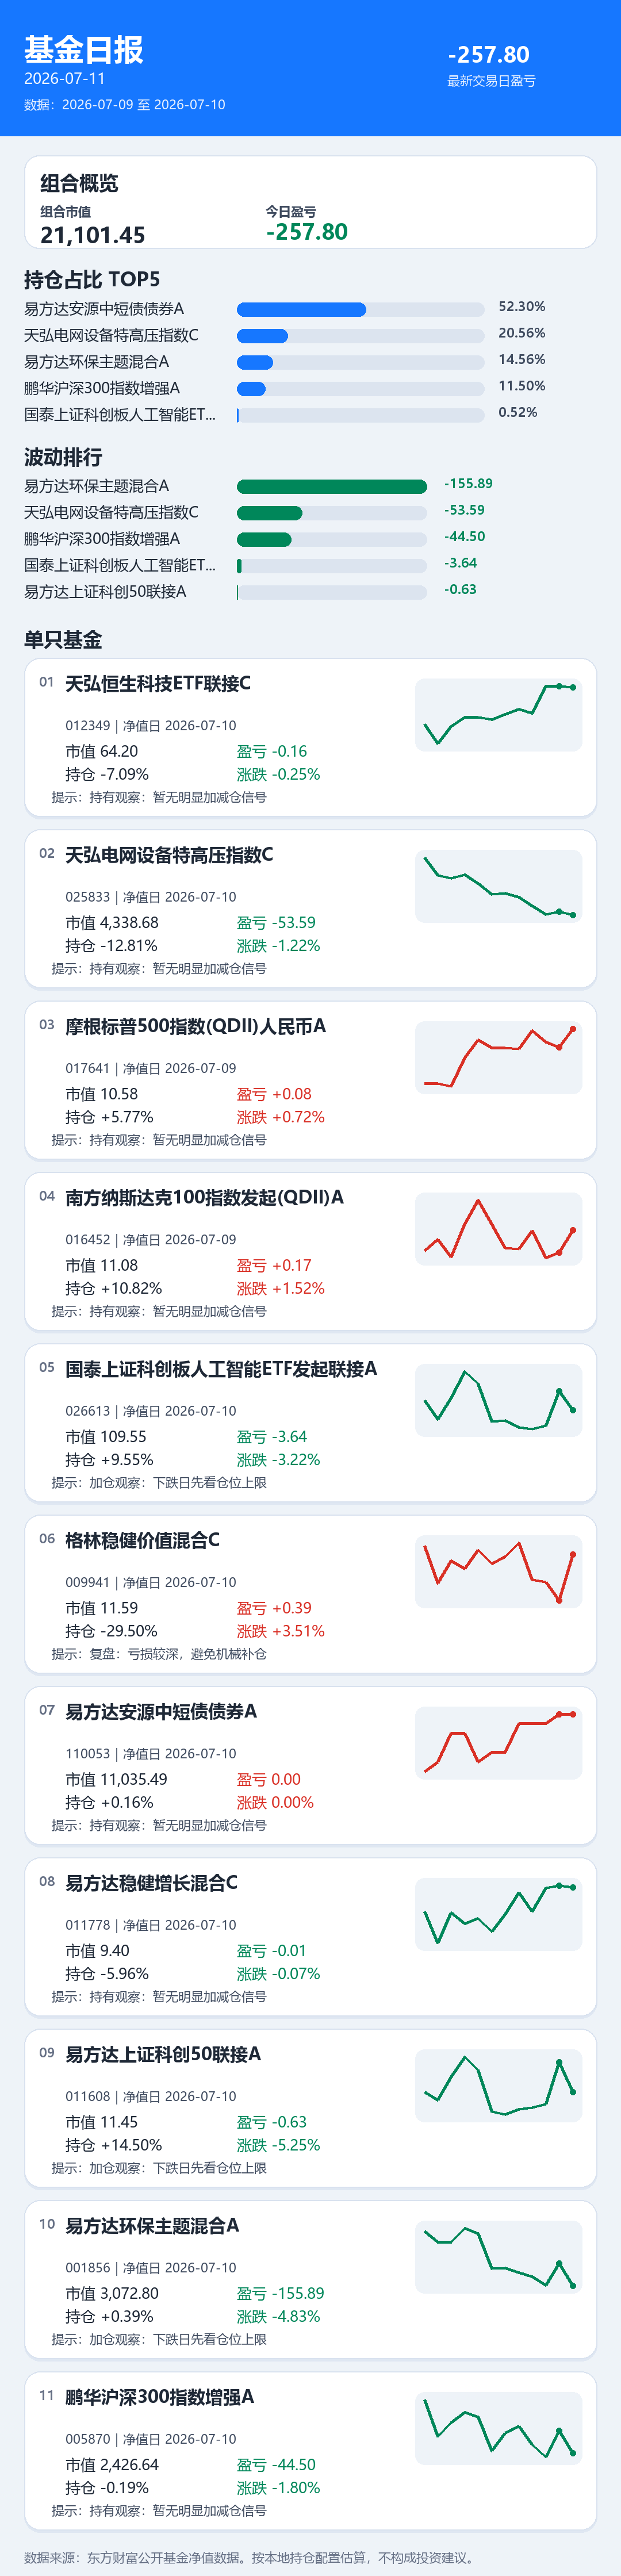
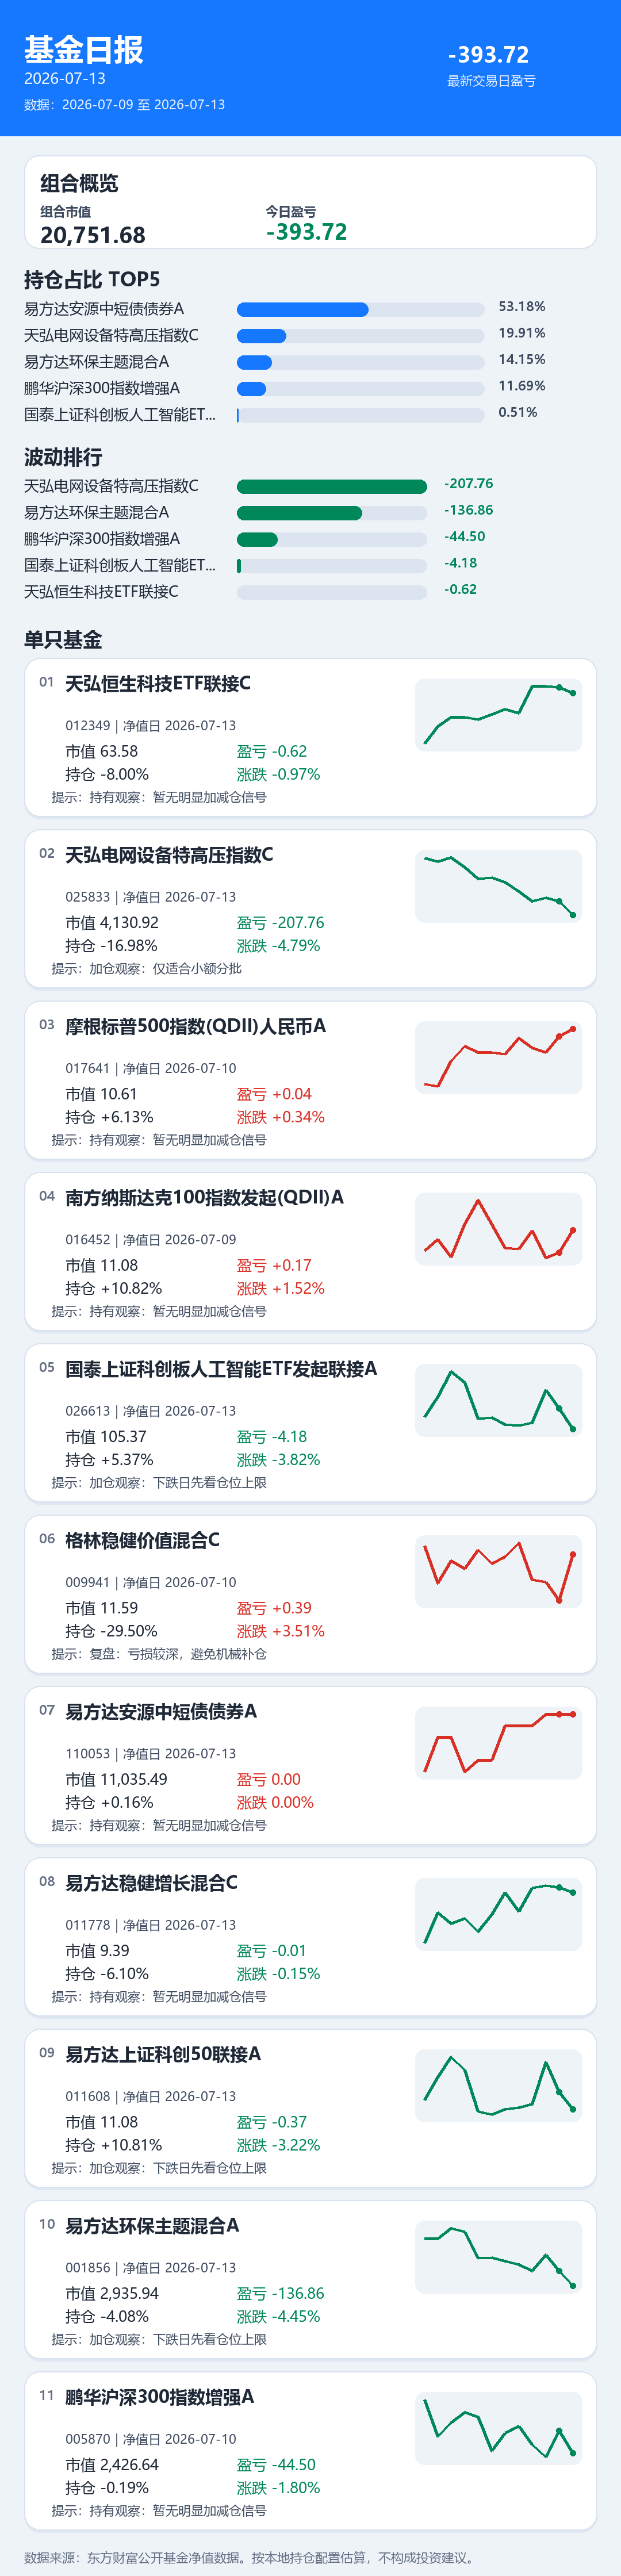
Update fund report

diff --git a/index.html b/index.html
@@ -4,7 +4,7 @@
   <meta charset="utf-8">
   <meta name="viewport" content="width=device-width, initial-scale=1">
   <meta name="color-scheme" content="light">
-  <title>基金日报 2026-07-11</title>
+  <title>基金日报 2026-07-13</title>
   <style>
     :root {
       --blue: #1677ff;
@@ -92,35 +92,35 @@
   <header class="report-header">
     <div class="header-inner">
       <div class="header-top">
-        <div><h1>基金日报</h1><p class="report-date">2026-07-11</p></div>
-        <div class="total-profit"><span>最新盈亏</span><strong class="down">-257.80</strong></div>
+        <div><h1>基金日报</h1><p class="report-date">2026-07-13</p></div>
+        <div class="total-profit"><span>最新盈亏</span><strong class="down">-393.72</strong></div>
       </div>
-      <p class="status">净值日期不一致：2026-07-09 至 2026-07-10 · 生成于 21:32</p>
+      <p class="status">净值日期不一致：2026-07-09 至 2026-07-13 · 生成于 21:31</p>
     </div>
   </header>
   <main>
     <section class="overview">
-      <div class="market-value"><h2>组合概览</h2><span>组合市值</span><strong>21,101.45</strong></div>
+      <div class="market-value"><h2>组合概览</h2><span>组合市值</span><strong>20,751.68</strong></div>
       <div><h2>持仓占比 TOP5</h2>
         <div class="position-row">
-          <div><span>易方达安源中短债债券A</span><strong>52.30%</strong></div>
-          <div class="bar"><i style="width:52.29728826268874160596049665%"></i></div>
+          <div><span>易方达安源中短债债券A</span><strong>53.18%</strong></div>
+          <div class="bar"><i style="width:53.17877501833291723431404222%"></i></div>
         </div>
         <div class="position-row">
-          <div><span>天弘电网设备特高压指数C</span><strong>20.56%</strong></div>
-          <div class="bar"><i style="width:20.56104597573046740367083099%"></i></div>
+          <div><span>天弘电网设备特高压指数C</span><strong>19.91%</strong></div>
+          <div class="bar"><i style="width:19.90641814759095893039161796%"></i></div>
         </div>
         <div class="position-row">
-          <div><span>易方达环保主题混合A</span><strong>14.56%</strong></div>
-          <div class="bar"><i style="width:14.56201259294924840830462025%"></i></div>
+          <div><span>易方达环保主题混合A</span><strong>14.15%</strong></div>
+          <div class="bar"><i style="width:14.14793969901063129637588490%"></i></div>
         </div>
         <div class="position-row">
-          <div><span>鹏华沪深300指数增强A</span><strong>11.50%</strong></div>
-          <div class="bar"><i style="width:11.49985732220298966762575576%"></i></div>
+          <div><span>鹏华沪深300指数增强A</span><strong>11.69%</strong></div>
+          <div class="bar"><i style="width:11.69369092731080567566046159%"></i></div>
         </div>
         <div class="position-row">
-          <div><span>国泰上证科创板人工智能ETF发起联接A</span><strong>0.52%</strong></div>
-          <div class="bar"><i style="width:0.5191585187128711751338067600%"></i></div>
+          <div><span>国泰上证科创板人工智能ETF发起联接A</span><strong>0.51%</strong></div>
+          <div class="bar"><i style="width:0.5077661454579721893183450168%"></i></div>
         </div></div>
     </section>
     <h2 class="funds-title">单只基金</h2>
@@ -130,18 +130,18 @@
           <span class="fund-index">01</span>
           <div>
             <h2>天弘恒生科技ETF联接C</h2>
-            <p>012349 · 净值日 2026-07-10</p>
+            <p>012349 · 净值日 2026-07-13</p>
           </div>
-          <strong class="growth down">-0.25%</strong>
+          <strong class="growth down">-0.97%</strong>
         </div>
         <div class="fund-body">
           <dl class="fund-stats">
-            <div><dt>市值</dt><dd>64.20</dd></div>
-            <div><dt>最新盈亏</dt><dd class="down">-0.16</dd></div>
-            <div><dt>持仓收益</dt><dd class="down">-7.09%</dd></div>
-            <div><dt>持仓占比</dt><dd>0.30%</dd></div>
+            <div><dt>市值</dt><dd>63.58</dd></div>
+            <div><dt>最新盈亏</dt><dd class="down">-0.62</dd></div>
+            <div><dt>持仓收益</dt><dd class="down">-8.00%</dd></div>
+            <div><dt>持仓占比</dt><dd>0.31%</dd></div>
           </dl>
-          <svg class="sparkline down" viewBox="0 0 240 76" role="img" aria-label="近12个净值点走势"><line class="spark-base" x1="10" y1="62" x2="230" y2="62"></line><polyline points="10.0,46.1 30.0,62.0 50.0,47.7 70.0,40.0 90.0,40.3 110.0,42.2 130.0,37.9 150.0,33.4 170.0,37.0 190.0,14.2 210.0,14.0 230.0,15.3"></polyline><circle cx="230.0" cy="15.3" r="4"></circle></svg>
+          <svg class="sparkline down" viewBox="0 0 240 76" role="img" aria-label="近12个净值点走势"><line class="spark-base" x1="10" y1="62" x2="230" y2="62"></line><polyline points="10.0,62.0 30.0,47.7 50.0,40.0 70.0,40.3 90.0,42.2 110.0,37.9 130.0,33.4 150.0,37.0 170.0,14.2 190.0,14.0 210.0,15.3 230.0,20.2"></polyline><circle cx="230.0" cy="20.2" r="4"></circle></svg>
         </div>
         <p class="hint">持有观察：暂无明显加减仓信号</p>
       </article>
@@ -150,38 +150,38 @@
           <span class="fund-index">02</span>
           <div>
             <h2>天弘电网设备特高压指数C</h2>
-            <p>025833 · 净值日 2026-07-10</p>
+            <p>025833 · 净值日 2026-07-13</p>
           </div>
-          <strong class="growth down">-1.22%</strong>
+          <strong class="growth down">-4.79%</strong>
         </div>
         <div class="fund-body">
           <dl class="fund-stats">
-            <div><dt>市值</dt><dd>4,338.68</dd></div>
-            <div><dt>最新盈亏</dt><dd class="down">-53.59</dd></div>
-            <div><dt>持仓收益</dt><dd class="down">-12.81%</dd></div>
-            <div><dt>持仓占比</dt><dd>20.56%</dd></div>
+            <div><dt>市值</dt><dd>4,130.92</dd></div>
+            <div><dt>最新盈亏</dt><dd class="down">-207.76</dd></div>
+            <div><dt>持仓收益</dt><dd class="down">-16.98%</dd></div>
+            <div><dt>持仓占比</dt><dd>19.91%</dd></div>
           </dl>
-          <svg class="sparkline down" viewBox="0 0 240 76" role="img" aria-label="近12个净值点走势"><line class="spark-base" x1="10" y1="62" x2="230" y2="62"></line><polyline points="10.0,14.0 30.0,29.0 50.0,31.6 70.0,28.5 90.0,36.0 110.0,45.1 130.0,43.8 150.0,47.6 170.0,54.6 190.0,61.9 210.0,59.4 230.0,62.0"></polyline><circle cx="230.0" cy="62.0" r="4"></circle></svg>
+          <svg class="sparkline down" viewBox="0 0 240 76" role="img" aria-label="近12个净值点走势"><line class="spark-base" x1="10" y1="62" x2="230" y2="62"></line><polyline points="10.0,14.5 30.0,17.4 50.0,14.0 70.0,22.3 90.0,32.2 110.0,30.8 130.0,35.0 150.0,42.7 170.0,50.8 190.0,48.1 210.0,50.9 230.0,62.0"></polyline><circle cx="230.0" cy="62.0" r="4"></circle></svg>
         </div>
-        <p class="hint">持有观察：暂无明显加减仓信号</p>
+        <p class="hint">加仓观察：仅适合小额分批</p>
       </article>
       <article class="fund-card">
         <div class="fund-heading">
           <span class="fund-index">03</span>
           <div>
             <h2>摩根标普500指数(QDII)人民币A</h2>
-            <p>017641 · 净值日 2026-07-09</p>
+            <p>017641 · 净值日 2026-07-10</p>
           </div>
-          <strong class="growth up">+0.72%</strong>
+          <strong class="growth up">+0.34%</strong>
         </div>
         <div class="fund-body">
           <dl class="fund-stats">
-            <div><dt>市值</dt><dd>10.58</dd></div>
-            <div><dt>最新盈亏</dt><dd class="up">+0.08</dd></div>
-            <div><dt>持仓收益</dt><dd class="up">+5.77%</dd></div>
+            <div><dt>市值</dt><dd>10.61</dd></div>
+            <div><dt>最新盈亏</dt><dd class="up">+0.04</dd></div>
+            <div><dt>持仓收益</dt><dd class="up">+6.13%</dd></div>
             <div><dt>持仓占比</dt><dd>0.05%</dd></div>
           </dl>
-          <svg class="sparkline up" viewBox="0 0 240 76" role="img" aria-label="近12个净值点走势"><line class="spark-base" x1="10" y1="62" x2="230" y2="62"></line><polyline points="10.0,59.7 30.0,59.8 50.0,62.0 70.0,38.0 90.0,23.5 110.0,29.9 130.0,29.9 150.0,31.0 170.0,15.7 190.0,25.2 210.0,29.5 230.0,14.0"></polyline><circle cx="230.0" cy="14.0" r="4"></circle></svg>
+          <svg class="sparkline up" viewBox="0 0 240 76" role="img" aria-label="近12个净值点走势"><line class="spark-base" x1="10" y1="62" x2="230" y2="62"></line><polyline points="10.0,60.1 30.0,62.0 50.0,41.2 70.0,28.7 90.0,34.1 110.0,34.1 130.0,35.1 150.0,21.8 170.0,30.1 190.0,33.8 210.0,20.4 230.0,14.0"></polyline><circle cx="230.0" cy="14.0" r="4"></circle></svg>
         </div>
         <p class="hint">持有观察：暂无明显加减仓信号</p>
       </article>
@@ -210,18 +210,18 @@
           <span class="fund-index">05</span>
           <div>
             <h2>国泰上证科创板人工智能ETF发起联接A</h2>
-            <p>026613 · 净值日 2026-07-10</p>
+            <p>026613 · 净值日 2026-07-13</p>
           </div>
-          <strong class="growth down">-3.22%</strong>
+          <strong class="growth down">-3.82%</strong>
         </div>
         <div class="fund-body">
           <dl class="fund-stats">
-            <div><dt>市值</dt><dd>109.55</dd></div>
-            <div><dt>最新盈亏</dt><dd class="down">-3.64</dd></div>
-            <div><dt>持仓收益</dt><dd class="up">+9.55%</dd></div>
-            <div><dt>持仓占比</dt><dd>0.52%</dd></div>
+            <div><dt>市值</dt><dd>105.37</dd></div>
+            <div><dt>最新盈亏</dt><dd class="down">-4.18</dd></div>
+            <div><dt>持仓收益</dt><dd class="up">+5.37%</dd></div>
+            <div><dt>持仓占比</dt><dd>0.51%</dd></div>
           </dl>
-          <svg class="sparkline down" viewBox="0 0 240 76" role="img" aria-label="近12个净值点走势"><line class="spark-base" x1="10" y1="62" x2="230" y2="62"></line><polyline points="10.0,38.0 30.0,54.2 50.0,36.5 70.0,14.0 90.0,24.1 110.0,56.0 130.0,54.9 150.0,60.9 170.0,62.0 190.0,59.6 210.0,30.7 230.0,46.6"></polyline><circle cx="230.0" cy="46.6" r="4"></circle></svg>
+          <svg class="sparkline down" viewBox="0 0 240 76" role="img" aria-label="近12个净值点走势"><line class="spark-base" x1="10" y1="62" x2="230" y2="62"></line><polyline points="10.0,52.0 30.0,35.3 50.0,14.0 70.0,23.6 90.0,53.6 110.0,52.6 130.0,58.3 150.0,59.3 170.0,57.0 190.0,29.7 210.0,44.7 230.0,62.0"></polyline><circle cx="230.0" cy="62.0" r="4"></circle></svg>
         </div>
         <p class="hint">加仓观察：下跌日先看仓位上限</p>
       </article>
@@ -239,7 +239,7 @@
             <div><dt>市值</dt><dd>11.59</dd></div>
             <div><dt>最新盈亏</dt><dd class="up">+0.39</dd></div>
             <div><dt>持仓收益</dt><dd class="down">-29.50%</dd></div>
-            <div><dt>持仓占比</dt><dd>0.05%</dd></div>
+            <div><dt>持仓占比</dt><dd>0.06%</dd></div>
           </dl>
           <svg class="sparkline up" viewBox="0 0 240 76" role="img" aria-label="近12个净值点走势"><line class="spark-base" x1="10" y1="62" x2="230" y2="62"></line><polyline points="10.0,16.5 30.0,47.9 50.0,28.9 70.0,35.8 90.0,20.1 110.0,31.4 130.0,25.9 150.0,14.0 170.0,45.2 190.0,46.8 210.0,62.0 230.0,23.9"></polyline><circle cx="230.0" cy="23.9" r="4"></circle></svg>
         </div>
@@ -250,7 +250,7 @@
           <span class="fund-index">07</span>
           <div>
             <h2>易方达安源中短债债券A</h2>
-            <p>110053 · 净值日 2026-07-10</p>
+            <p>110053 · 净值日 2026-07-13</p>
           </div>
           <strong class="growth flat">0.00%</strong>
         </div>
@@ -259,9 +259,9 @@
             <div><dt>市值</dt><dd>11,035.49</dd></div>
             <div><dt>最新盈亏</dt><dd class="flat">0.00</dd></div>
             <div><dt>持仓收益</dt><dd class="up">+0.16%</dd></div>
-            <div><dt>持仓占比</dt><dd>52.30%</dd></div>
+            <div><dt>持仓占比</dt><dd>53.18%</dd></div>
           </dl>
-          <svg class="sparkline flat" viewBox="0 0 240 76" role="img" aria-label="近12个净值点走势"><line class="spark-base" x1="10" y1="62" x2="230" y2="62"></line><polyline points="10.0,62.0 30.0,54.0 50.0,30.0 70.0,30.0 90.0,54.0 110.0,46.0 130.0,46.0 150.0,22.0 170.0,22.0 190.0,22.0 210.0,14.0 230.0,14.0"></polyline><circle cx="230.0" cy="14.0" r="4"></circle></svg>
+          <svg class="sparkline flat" viewBox="0 0 240 76" role="img" aria-label="近12个净值点走势"><line class="spark-base" x1="10" y1="62" x2="230" y2="62"></line><polyline points="10.0,62.0 30.0,33.2 50.0,33.2 70.0,62.0 90.0,52.4 110.0,52.4 130.0,23.6 150.0,23.6 170.0,23.6 190.0,14.0 210.0,14.0 230.0,14.0"></polyline><circle cx="230.0" cy="14.0" r="4"></circle></svg>
         </div>
         <p class="hint">持有观察：暂无明显加减仓信号</p>
       </article>
@@ -270,18 +270,18 @@
           <span class="fund-index">08</span>
           <div>
             <h2>易方达稳健增长混合C</h2>
-            <p>011778 · 净值日 2026-07-10</p>
+            <p>011778 · 净值日 2026-07-13</p>
           </div>
-          <strong class="growth down">-0.07%</strong>
+          <strong class="growth down">-0.15%</strong>
         </div>
         <div class="fund-body">
           <dl class="fund-stats">
-            <div><dt>市值</dt><dd>9.40</dd></div>
+            <div><dt>市值</dt><dd>9.39</dd></div>
             <div><dt>最新盈亏</dt><dd class="down">-0.01</dd></div>
-            <div><dt>持仓收益</dt><dd class="down">-5.96%</dd></div>
-            <div><dt>持仓占比</dt><dd>0.04%</dd></div>
+            <div><dt>持仓收益</dt><dd class="down">-6.10%</dd></div>
+            <div><dt>持仓占比</dt><dd>0.05%</dd></div>
           </dl>
-          <svg class="sparkline down" viewBox="0 0 240 76" role="img" aria-label="近12个净值点走势"><line class="spark-base" x1="10" y1="62" x2="230" y2="62"></line><polyline points="10.0,35.6 30.0,62.0 50.0,36.9 70.0,45.8 90.0,41.7 110.0,52.8 130.0,38.2 150.0,20.0 170.0,35.6 190.0,16.2 210.0,14.0 230.0,15.9"></polyline><circle cx="230.0" cy="15.9" r="4"></circle></svg>
+          <svg class="sparkline down" viewBox="0 0 240 76" role="img" aria-label="近12个净值点走势"><line class="spark-base" x1="10" y1="62" x2="230" y2="62"></line><polyline points="10.0,62.0 30.0,36.9 50.0,45.8 70.0,41.7 90.0,52.8 110.0,38.2 130.0,20.0 150.0,35.6 170.0,16.2 190.0,14.0 210.0,15.9 230.0,20.0"></polyline><circle cx="230.0" cy="20.0" r="4"></circle></svg>
         </div>
         <p class="hint">持有观察：暂无明显加减仓信号</p>
       </article>
@@ -290,18 +290,18 @@
           <span class="fund-index">09</span>
           <div>
             <h2>易方达上证科创50联接A</h2>
-            <p>011608 · 净值日 2026-07-10</p>
+            <p>011608 · 净值日 2026-07-13</p>
           </div>
-          <strong class="growth down">-5.25%</strong>
+          <strong class="growth down">-3.22%</strong>
         </div>
         <div class="fund-body">
           <dl class="fund-stats">
-            <div><dt>市值</dt><dd>11.45</dd></div>
-            <div><dt>最新盈亏</dt><dd class="down">-0.63</dd></div>
-            <div><dt>持仓收益</dt><dd class="up">+14.50%</dd></div>
+            <div><dt>市值</dt><dd>11.08</dd></div>
+            <div><dt>最新盈亏</dt><dd class="down">-0.37</dd></div>
+            <div><dt>持仓收益</dt><dd class="up">+10.81%</dd></div>
             <div><dt>持仓占比</dt><dd>0.05%</dd></div>
           </dl>
-          <svg class="sparkline down" viewBox="0 0 240 76" role="img" aria-label="近12个净值点走势"><line class="spark-base" x1="10" y1="62" x2="230" y2="62"></line><polyline points="10.0,43.4 30.0,50.4 50.0,31.1 70.0,14.0 90.0,25.3 110.0,59.6 130.0,62.0 150.0,57.7 170.0,56.6 190.0,53.5 210.0,18.4 230.0,43.5"></polyline><circle cx="230.0" cy="43.5" r="4"></circle></svg>
+          <svg class="sparkline down" viewBox="0 0 240 76" role="img" aria-label="近12个净值点走势"><line class="spark-base" x1="10" y1="62" x2="230" y2="62"></line><polyline points="10.0,50.4 30.0,31.1 50.0,14.0 70.0,25.3 90.0,59.6 110.0,62.0 130.0,57.7 150.0,56.6 170.0,53.5 190.0,18.4 210.0,43.5 230.0,58.0"></polyline><circle cx="230.0" cy="58.0" r="4"></circle></svg>
         </div>
         <p class="hint">加仓观察：下跌日先看仓位上限</p>
       </article>
@@ -310,18 +310,18 @@
           <span class="fund-index">10</span>
           <div>
             <h2>易方达环保主题混合A</h2>
-            <p>001856 · 净值日 2026-07-10</p>
+            <p>001856 · 净值日 2026-07-13</p>
           </div>
-          <strong class="growth down">-4.83%</strong>
+          <strong class="growth down">-4.45%</strong>
         </div>
         <div class="fund-body">
           <dl class="fund-stats">
-            <div><dt>市值</dt><dd>3,072.80</dd></div>
-            <div><dt>最新盈亏</dt><dd class="down">-155.89</dd></div>
-            <div><dt>持仓收益</dt><dd class="up">+0.39%</dd></div>
-            <div><dt>持仓占比</dt><dd>14.56%</dd></div>
+            <div><dt>市值</dt><dd>2,935.94</dd></div>
+            <div><dt>最新盈亏</dt><dd class="down">-136.86</dd></div>
+            <div><dt>持仓收益</dt><dd class="down">-4.08%</dd></div>
+            <div><dt>持仓占比</dt><dd>14.15%</dd></div>
           </dl>
-          <svg class="sparkline down" viewBox="0 0 240 76" role="img" aria-label="近12个净值点走势"><line class="spark-base" x1="10" y1="62" x2="230" y2="62"></line><polyline points="10.0,16.6 30.0,25.8 50.0,25.8 70.0,14.0 90.0,18.5 110.0,48.0 130.0,47.1 150.0,51.1 170.0,54.6 190.0,61.9 210.0,43.6 230.0,62.0"></polyline><circle cx="230.0" cy="62.0" r="4"></circle></svg>
+          <svg class="sparkline down" viewBox="0 0 240 76" role="img" aria-label="近12个净值点走势"><line class="spark-base" x1="10" y1="62" x2="230" y2="62"></line><polyline points="10.0,22.8 30.0,22.8 50.0,14.0 70.0,17.3 90.0,39.4 110.0,38.8 130.0,41.8 150.0,44.4 170.0,49.8 190.0,36.1 210.0,49.9 230.0,62.0"></polyline><circle cx="230.0" cy="62.0" r="4"></circle></svg>
         </div>
         <p class="hint">加仓观察：下跌日先看仓位上限</p>
       </article>
@@ -339,7 +339,7 @@
             <div><dt>市值</dt><dd>2,426.64</dd></div>
             <div><dt>最新盈亏</dt><dd class="down">-44.50</dd></div>
             <div><dt>持仓收益</dt><dd class="down">-0.19%</dd></div>
-            <div><dt>持仓占比</dt><dd>11.50%</dd></div>
+            <div><dt>持仓占比</dt><dd>11.69%</dd></div>
           </dl>
           <svg class="sparkline down" viewBox="0 0 240 76" role="img" aria-label="近12个净值点走势"><line class="spark-base" x1="10" y1="62" x2="230" y2="62"></line><polyline points="10.0,14.0 30.0,44.8 50.0,33.2 70.0,24.6 90.0,28.5 110.0,57.0 130.0,42.0 150.0,36.2 170.0,51.6 190.0,62.0 210.0,40.1 230.0,58.8"></polyline><circle cx="230.0" cy="58.8" r="4"></circle></svg>
         </div>